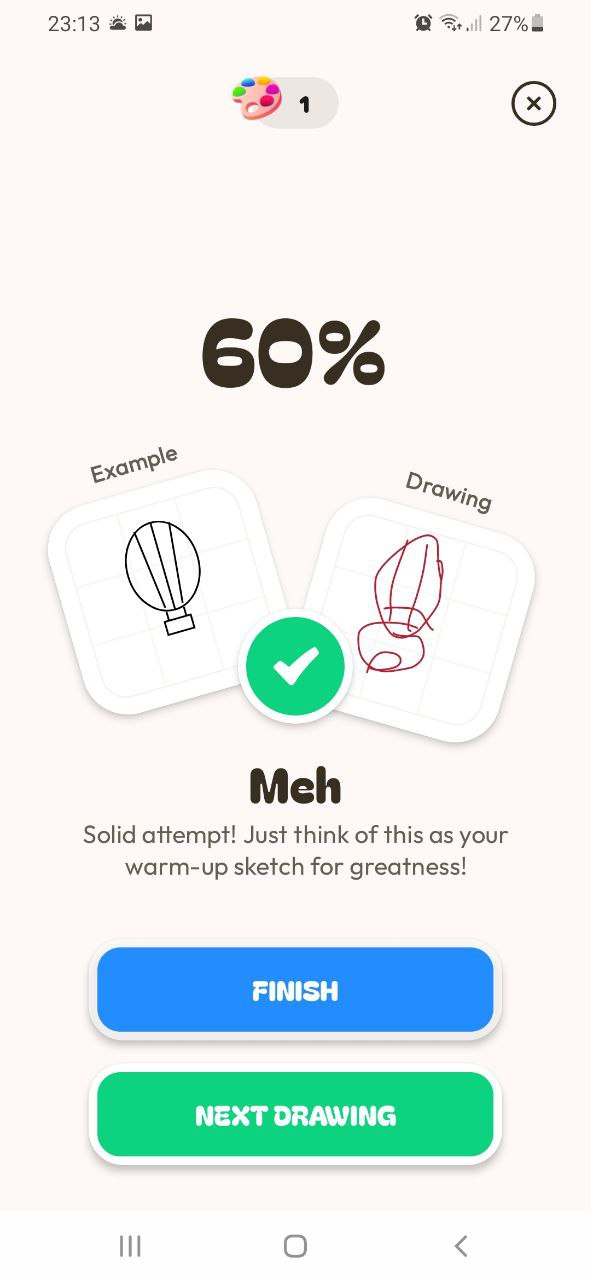
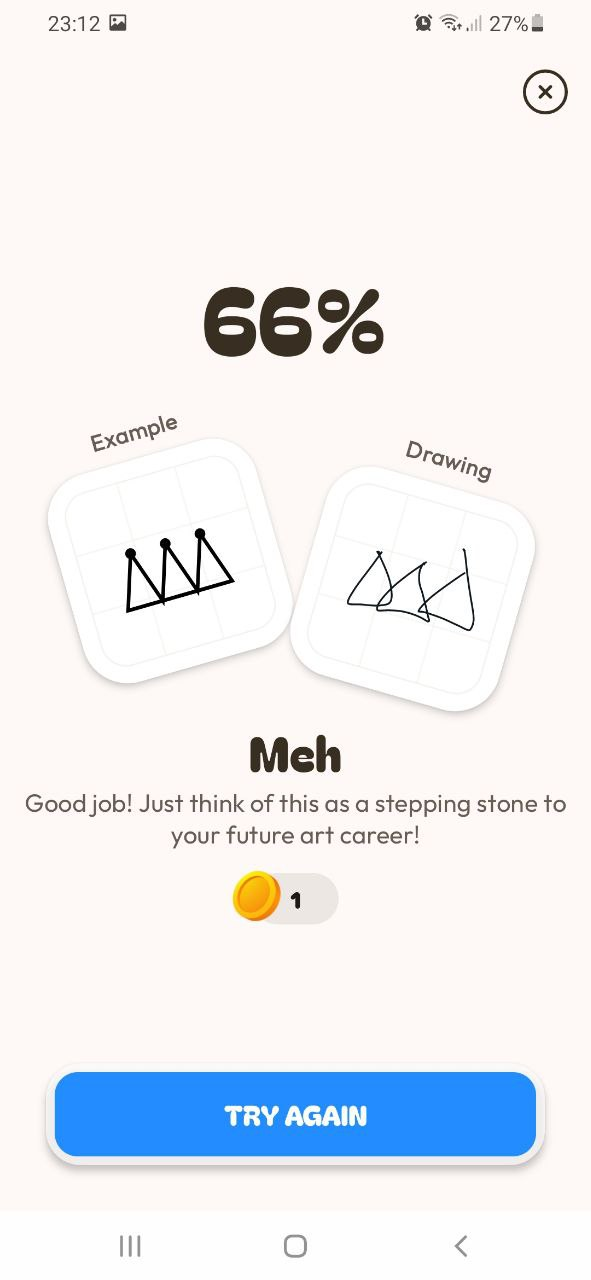
Updated README.md and fixed the screenshot order and bug

diff --git a/README.md b/README.md
@@ -1,23 +1,25 @@
 # 🎨 PLScribbleDash
 
-**PLScribbleDash** is a modern, feature-rich Android drawing game app built entirely with Jetpack Compose, inspired by the Mobile Dev Campus Main App Challenge by [Philipp Lackner](https://pl-coding.com/campus).
+**PLScribbleDash** is a modern, feature-rich Android drawing game app built entirely with Jetpack
+Compose, inspired by the Mobile Dev Campus Main App Challenge
+by [Philipp Lackner](https://pl-coding.com/campus).
 
 ---
 
 ## 🚀 Features
 
 - **🖌 Multiple Game Modes**
-  - **One-Round Mode** – Memorize and replicate a drawing after a short preview.
-  - **Speed Mode** – Recreate as many drawings as possible against the clock.
-  - **Endless Mode** – Draw freely and compete for your best accuracy score.
+    - **One-Round Mode** – Memorize and replicate a drawing after a short preview.
+    - **Speed Mode** – Recreate as many drawings as possible against the clock.
+    - **Endless Mode** – Draw freely and compete for your best accuracy score.
 - **📊 Statistics**
-  - Track your high scores, accuracy, and number of games played for each mode.
+    - Track your high scores, accuracy, and number of games played for each mode.
 - **🛍 Shop System**
-  - Unlock and customize canvas backgrounds, pen colors, and more using in-app currency.
+    - Unlock and customize canvas backgrounds, pen colors, and more using in-app currency.
 - **⚡ Fast & Responsive**
-  - Smooth, real-time drawing powered by a custom Compose canvas.
+    - Smooth, real-time drawing powered by a custom Compose canvas.
 - **📱 Adaptive UI**
-  - Beautiful Material 3 design, dark/light themes, landscape & tablet support.
+    - Beautiful Material 3 design, dark/light themes, landscape & tablet support.
 
 ---
 
@@ -37,26 +39,27 @@
 ## 🖼 Screenshots
 
 | ![Home Screen](screenshots/home_screen.jpg) | ![Game Mode Screen](screenshots/game_mode_screen.jpg) |
-|:--:|:--:|
-| *Home Screen* | *Game Mode Selection* |
+|:-------------------------------------------:|:-----------------------------------------------------:|
+|                *Home Screen*                |                 *Game Mode Selection*                 |
 
 | ![Game Preview](screenshots/game_preview_screen.jpg) | ![Game Screen](screenshots/game_screen.jpg) |
-|:--:|:--:|
-| *Game Preview* | *Game Canvas* |
+|:----------------------------------------------------:|:-------------------------------------------:|
+|                    *Game Preview*                    |                *Game Canvas*                |
 
-| ![Game Result](screenshots/game_result_screen.jpg) | ![Endless Mode Result](screenshots/game_result_endless_mode_screen.jpg) |
-|:--:|:--:|
-| *Result Screen (Endless Mode)* | *Result Screen (Normal)* |
+| ![Game Result](screenshots/game_endless_result_screen.jpg) | ![Endless Mode Result](screenshots/game_result_screen.jpg) |
+|:----------------------------------------------------------:|:----------------------------------------------------------:|
+|               *Result Screen (Endless mode)*               |                  *Result Screen (Normal)*                  |
 
-| ![Statistics](screenshots/statistics_screen.jpg) | ![Shop: Drawboard](screenshots/shop_drawboard_screen.jpg) |
-|:--:|:--:|
-| *Statistics* | *Shop – Drawboard Customization* |
+| ![Shop: Pen](screenshots/shop_pen_screen.jpg) | ![Shop: Drawboard](screenshots/shop_drawboard_screen.jpg) |
+|:---------------------------------------------:|:---------------------------------------------------------:|
+|          *Shop – Pen Customization*           |             *Shop – Draw board Customization*             |
 
-| ![Shop: Pen](screenshots/shop_pen_screen.jpg) |  |
-|:--:|:--:|
-| *Shop – Pen Customization* |  |
+| ![Statistics](screenshots/statistics_screen.jpg) |
+|:------------------------------------------------:|
+|                   *Statistics*                   |
 
-> _All screenshots are in the [`screenshots/`](screenshots/) folder. Each file name matches the screen title._
+> _All screenshots are in the [`screenshots/`](screenshots) folder. Each file name matches the
+screen title._
 
 ---
 
@@ -67,6 +70,12 @@
 - StateFlow & Unidirectional Data Flow in Compose
 - Modularization and clean project architecture
 - Jetpack Compose best practices for real-world apps
+
+---
+
+## 🎥 Demo
+
+_Add a GIF or video demo here if available!_
 
 ---
 
